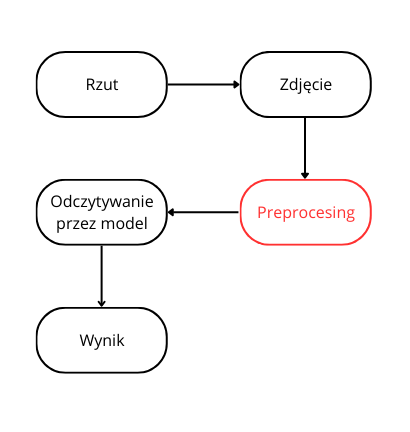
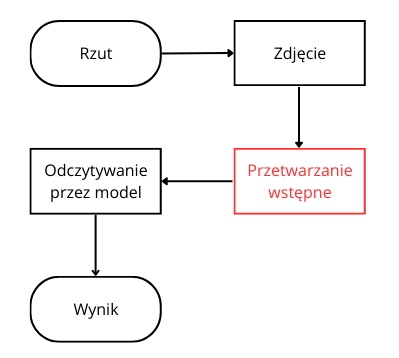
Poprawki poprwek

Changed region(s): [[0.0602, 0.3994, 0.9323, 0.9218], [0.0602, 0.0307, 0.9323, 0.4302], [0.0902, 0.9218, 0.391, 0.9832]]

diff --git a/Pracka/chapters/06-testy/06-testy.tex b/Pracka/chapters/06-testy/06-testy.tex
@@ -9,7 +9,7 @@ wyników jest równomierny. Pozostałe cztery to zestaw podany przez amerykańsk
 jest przygotowany dla ciągów o długości 20000 bitów. Poziom istotności tych testów jest równy 0{,}0001~\cite{Kotulski2001}.
 
 
-W sekcjach~\ref{monbitOpis}~-~\ref{pokerowyOpis} zostały opisane testy wskazane w owej normie. Przedsawione w nich stałe
+W sekcjach~\ref{monbitOpis}~--~\ref{pokerowyOpis} zostały opisane testy wskazane w owej normie. Przedsawione w nich stałe
 są zgodnie z normami przedstawionymi w FIPS 140-2~\cite{NIST2001}. Zostały one zaimplementowane w języku Python.
 \par
 Do przeprowadzenia testów rozważano również wykorzystanie biblioteki \textit{TestU01} \cite{TestU01}. Niestety, do zastosowania nawet 
@@ -159,7 +159,7 @@ zgodna z oczekiwaną. Brak podstaw do odrzucenia hipotezy zerowej dla modelu dru
 \subsection{Test serii}
 
 Wyniki testów serii dla obu modeli przedstawiono w tabeli \ref{serieTabela}. Rozkład serii w badanym ciągu odczytanym
-przez modelu pierwszego nie jest zgodny z oczekiwanymi dla obu serii o długości 1, obu serii o długości 2, serii jedynek 
+przez pierwszy model nie jest zgodny z oczekiwanymi dla obu serii o długości 1, obu serii o długości 2, serii jedynek 
 o długości 4 i serii zer o długości 6 lub więcej. Hipotezę zerową dla modelu pierwszego odrzucono.
 
 Dla modelu drugiego rozkłady wszystkich serii są zgodne z oczekiwanymi. Brak podstaw do odrzucenia hipotezy zerowej.
@@ -247,12 +247,12 @@ Rozkład segmentów w ciągach odczytanych przez oba modele przedstawiono w tabe
 \end{table} 
 
 \subsection{Wnioski}
-Dla pierwszego modelu odrzucono hipotezę zerową dla czterech z pięciu testów odrzucono. W wynikach testu statystyki 
-rozkładu chi-kwadrat (punt \ref{chiWyniki}) można zauważyć, że liczba 6 jest odczytywana ponad dwa razy częściej niż 
+Dla pierwszego modelu odrzucono hipotezę zerową dla czterech z pięciu testów. W wynikach testu statystyki 
+rozkładu chi-kwadrat (sekcja \ref{chiWyniki}) można zauważyć, że liczba 6 jest odczytywana ponad dwa razy częściej niż 
 liczba 8. Ma to bardzo duży wpływ na otrzymany ciąg bitów, ponieważ liczba 6 jest interpretowana jako 110, a 
 liczba 8 jako 000, co można zaobserwować w wynikach pozostałych testów. Sprawia to, że jedynki pojawiają się 
-częściej w ciągu niż zera. Ukazuje to już test monobitowy (punkt \ref{chiWyniki}), gdzie liczba jedynek w ciągu jest 
-większa niż oczekiwana. Podobny problem można zaobserwować w wynikach testu pokerowego (punkt \ref{pokerWyniki}), 
+częściej w ciągu niż zera. Ukazuje to już test monobitowy (sekcja \ref{chiWyniki}), gdzie liczba jedynek w ciągu jest 
+większa niż oczekiwana. Podobny problem można zaobserwować w wynikach testu pokerowego (sekcja \ref{pokerWyniki}), 
 gdzie segmenty zawierające trzy lub cztery bity o wartości 1 występują znacznie częściej niż segmenty zawierające 
 więcej bitów o wartości 0. 
 \par

diff --git a/Pracka/chapters/02-teoria/02.2-sprzetowe.tex b/Pracka/chapters/02-teoria/02.2-sprzetowe.tex
@@ -25,7 +25,7 @@ za to na przykład za pośrednictwem API takiego jak \textit{drand}~\cite{drand_
 Przykładem takiego rozwiązania jest Cloudflare – firma specjalizująca się w dostarczaniu usług związanych z bezpieczeństwem sieciowym.
 Na swoim blogu Cloudflare przedstawia zaawansowane metody generowania liczb losowych, które są wykorzystywane w ich systemach~\cite{cloudflare_league_of_entropy}.
 Dodatkowo wspomniana firma korzysta również z technologii opartych na zjawiskach fizycznych, takich jak rozpad radioaktywnego uranu,
-trójstopniowego wahadła, czy „Entropy Wall”, która pobiera entropię z kamery
+trójstopniowego wahadła czy „Entropy Wall”, która pobiera entropię z kamery
 ustawionej na ścianę lamp lawowych, pokazanej na rys.~\ref{fig:lavarand}.
 Te prawdziwie losowe wartości zostają potem użyte jako ziarno dla generatorów pseudolosowych.
 Tego typu rozwiązania pozwalają na szybkie i bezpieczne generowanie liczb losowych w skali globalnej, zapewniając jednocześnie wysoki poziom ochrony przed atakami.
@@ -39,7 +39,7 @@ takich jak bankowość elektroniczna czy systemy wojskowe.
 
 ID Quantique jest jednym z liderów w dziedzinie generatorów liczb losowych opartych na technologii fotoniki i mechanizmach kwantowych.
 Firma oferuje urządzenia, które wykorzystują detekcję fotonów w celu generowania liczb losowych.
-Dzięki temu rozwiązania ID Quantique charakteryzują się bardzo wysoką jakością losowości,a jednocześnie są odporne na ataki związane z analizą i przewidywaniem generowanych liczb.
+Dzięki temu rozwiązania ID Quantique charakteryzują się bardzo wysoką jakością losowości, a jednocześnie są odporne na ataki związane z analizą i przewidywaniem generowanych liczb.
 
 Microchip Technology w swojej ofercie posiada różne moduły TRNG, w tym układy scalone,
 które generują liczby losowe na podstawie fluktuacji szumów termicznych.
@@ -69,5 +69,5 @@ Zamiast tego wynik jest generowany na podstawie zmiany prędkości, z jaką potr
 Drugim rozwiązaniem jest urządzenie wykorzystane w eksperymencie opisanym w artykule \textit{Dice thrown by cup and machine in PK tests} autorstwa J. B. Rhine~\cite{betoniarka43}.
 Jest on najbardziej zbliżony do przedstawionego w poniższej pracy projektu, ponieważ również wprawia kość w
 ruch za pomocą obracającego się mechanicznie pojemnika.
-Z racji na dostępne technologie, z którymi pracował J. B. Rhine, odczytywanie wyników musiało odbywać się ręcznie, a nie za pomocą małej kamery i sztucznej inteligencji.
+Z racji na dostępne technologie, z którymi pracował J.~B.~Rhine, odczytywanie wyników musiało odbywać się ręcznie, a nie za pomocą małej kamery i sztucznej inteligencji.
 Jednakże, konstrukcja urządzenia jest bardzo podobna do zaprezentowanego w sekcji~\ref{subsec:prototypowanie} pierwszego wariantu robota.

diff --git a/Pracka/chapters/05-Przetwarzanie Wyniku/05.1-Komunikacja.tex b/Pracka/chapters/05-Przetwarzanie Wyniku/05.1-Komunikacja.tex
@@ -22,14 +22,14 @@ Aby wykorzystać ten tryb pracy należy wysłać do robota znak 'e'.
 W tym trybie zadaniem jest ciągłe generowanie kolejnych bajtów danych.
 Odbywa się to przez wykonanie następującego algorytmu:
 \begin{enumerate}
-    \item Utowrzenie zmiennej \textit{num} i przypisanie wartości początkowej 0
-    \item Wykonanie rzutu kością
-    \item Wykorzystanie modelu opisanego w rozdziale~\ref{ch:odczytywanie-losowego-wyniku-z-kosci} do oczytania liczby i dodanie jej do zmiennej \textit{num}
-    \item Przesunięci bitowe zmiennej \textit{num} w lewo o 3 bity, ponieważ każdy rzut generuje 3 bity 
-    \item Powtórzenie kroku 1, 2 i 3 aż do wygenerowania co najmniej 8 bitów, ponieważ generując bajty należy wykonać 
-    kolejno 3 rzuty (zostaje 1 bit) 3 rzuty (zostają 2 bity) 2 rzuty (wykorzystujemy bity pozostałe z poprzednich rzutów)
-    \item Wydobycie bajtu ze zmiennej \textit{num} wykonując koniunkcję binarną z liczbą 255 i wysłanie go do drugiego urządzenia
-    \item Przesunięci bitowe zmiennej \textit{num} w prawo o 8 bitów, przez co zostanie usunięta część która została już wysłana
+    \item Utowrzenie zmiennej \textit{num} i przypisanie wartości początkowej 0.
+    \item Wykonanie rzutu kością.
+    \item Wykorzystanie modelu opisanego w rozdziale~\ref{ch:odczytywanie-losowego-wyniku-z-kosci} do oczytania liczby i dodanie jej do zmiennej \textit{num}.
+    \item Przesunięcie bitowe zmiennej \textit{num} w lewo o 3 bity, ponieważ każdy rzut generuje 3 bity.
+    \item Powtórzenie kroku 1, 2 i 3 aż do wygenerowania co najmniej 8 bitów, ponieważ generując bajty należy wykonać.
+    kolejno 3 rzuty (zostaje 1 bit) 3 rzuty (zostają 2 bity) 2 rzuty (wykorzystujemy bity pozostałe z poprzednich rzutów).
+    \item Wydobycie bajtu ze zmiennej \textit{num} wykonując koniunkcję binarną z liczbą 255 i wysłanie go do drugiego urządzenia.
+    \item Przesunięcie bitowe zmiennej \textit{num} w prawo o 8 bitów, przez co zostanie usunięta część która została już wysłana.
 \end{enumerate}
 
 W powyższym algorytmie dane wysyłane są po bajcie danych ponieważ jest to najmniejsza jednostka, 

diff --git a/Pracka/chapters/02-teoria/02.1-teoria.tex b/Pracka/chapters/02-teoria/02.1-teoria.tex
@@ -9,17 +9,17 @@ Z tego powodu nie można przewidzieć wyniku działania takiego układu, a uzysk
 
 Jednak powszechnie używane są generatory pseudolosowe (PRNG, z ang. \textit{Pseudorandom Number Generator}).
 PRNG są całkowicie deterministyczne i zależą od zadanej im wartości początkowej zwanej ziarnem (ang. \textit{seed}).
-TRNG (z ang. \textit{True Random Number Generator}) są szczególnie istotne w kontekście aplikacji wymagających silnej 
-ochrony danych, takich jak systemy kryptograficzne, podpisy cyfrowe, oraz w generowaniu kluczy szyfrujących,
+Dlatego TRNG (z ang. \textit{True Random Number Generator}) są szczególnie istotne w kontekście aplikacji wymagających silnej 
+ochrony danych, takich jak systemy kryptograficzne, podpisy cyfrowe oraz w generowaniu kluczy szyfrujących,
 gdyż nie da się przewidzieć w skuteczny sposób generowanych przez nie wartości.
 
 \section{Obecnie stosowane rozwiązania}\label{sec:obecnie-stosowane-rozwiazania}
 
 % todo opisać to lepiej, może Kuba (Yoshida) o linuxowych?
-Obecnie komputery osobiste wykorzystują generatory liczb losowych (RNG, z ang. \textit{Random Number Generator})
-wykorzystujące dostępne im źródła entropii dostarczane przez użytkownika, takie jak ruchy myszy lub naciśnięcia przycisków.
+Obecnie komputery osobiste korzystają z generatorów liczb losowych (RNG, z ang. \textit{Random Number Generator})
+wykorzystujących dostępne im źródła entropii dostarczane przez użytkownika, takie jak ruchy myszy lub naciśnięcia przycisków.
 W nowoczesnych procesorach stosuje się też liczby generowane przez dedykowane moduły takie jak Intel DRNG za pomocą \textit{Intel RDSEED} i \textit{RDRAND}~\cite{IntelRD}.
-System Linux dostarcza również interfejsy \textit{/dev/random} raz \textit{/dev/urandom} zapewniające liczby losowe.
+System Linux dostarcza również interfejsy \textit{/dev/random} oraz \textit{/dev/urandom} zapewniające liczby losowe.
 
 
 

diff --git a/Pracka/chapters/01-wstep/01.3-struktura_i_podzial.tex b/Pracka/chapters/01-wstep/01.3-struktura_i_podzial.tex
@@ -3,9 +3,9 @@
 Struktura pracy jest następująca:
 \begin{itemize}
     \item Rozdział~\ref{ch:przeglad-rynku} przedstawia przegląd obecnie dostępnych sprzętowych generatorów liczb losowych,
-    w tym liderów na rynku oraz innych rozwiązań, zbliżonych do naszego.
+    w tym liderów na rynku oraz innych rozwiązań, w tym zbliżonych do zaprezentowanego w poniższej pracy.
     \item Rozdział~\ref{ch:budowa-sprzetowego-generatora} jest poświęcony budowie sprzętowej części robota.
-    \item Rozdział~\ref{ch:odczytywanie-losowego-wyniku-z-kosci} zawiera dokładny opis metody odczytywania wyniku rzutu kością,
+    \item Rozdział~\ref{ch:odczytywanie-losowego-wyniku-z-kosci} zawiera dokładny opis metody odczytywania wyniku rzutu kością
     wraz z opisem wykorzystanej sieci neuronowej.
     \item Rozdział~\ref{ch:komunikacja} opisuje protokoł komunikacji z innym urządzeniem odbierającym wynik pracy robota. 
     \item Rozdział~\ref{ch:testy} przedstawia wykorzystane testy statystyczne oraz ich wyniki.
@@ -21,7 +21,7 @@ Realizacja projektu została podzielona w sposób przedstawiony w tabeli~\ref{ta
         \hline
         Imię i nazwisko & Zakres pracy \\
         \hline
-        \multirow{9}{*}{Jakub Kędra} 
+        \multirow{10}{*}{Jakub Kędra} 
             & Projekt i wydruk w technologii druku 3D prototypów oraz ostatecznej \\
             & wersji urządzenia. \\
             & Projekt układu elektronicznego. \\
@@ -55,7 +55,7 @@ Realizacja projektu została podzielona w sposób przedstawiony w tabeli~\ref{ta
             & Oznaczanie przykładów uczących dla sieci neuronowej. \\
             & Przegląd literatury. \\
         \hline
-        \multirow{7}{*}{Julia Samp} 
+        \multirow{8}{*}{Julia Samp} 
             & Opracowanie i przeprowadzenie testów statystycznych otrzymanych \\
             & wyników. \\
             & Implementacja testów zgodnie z standardem FIPS. \\

diff --git a/Pracka/chapters/01-wstep/01.2-decyzje-projektowe.tex b/Pracka/chapters/01-wstep/01.2-decyzje-projektowe.tex
@@ -41,7 +41,7 @@ a do tego ma liczbę ścianek będącą potęgą liczby 2 (co jest atutem, ze wz
 
 \begin{figure}[h]
     \centering
-      \begin{subfigure}{.43\textwidth}
+      \begin{subfigure}{.45\textwidth}
         \includegraphics[width=.9\linewidth]{chapters/01-wstep/figures/modern_k4}
         \caption{\label{fig:modern_k4}Kość czworościenna typu „modern”}
       \end{subfigure}%

diff --git a/Pracka/chapters/04-czytanie/04.1-Projektowanie-i-Budowa-OCR.tex b/Pracka/chapters/04-czytanie/04.1-Projektowanie-i-Budowa-OCR.tex
@@ -6,7 +6,7 @@ najpierw zdjęcie musi zostać poddane odpowiedniemu przetwarzaniu, które zosta
 
 \begin{figure}[H]
     \centering
-    \includegraphics[width=0.5\linewidth]{chapters/04-czytanie/figures/schemat}
+    \includegraphics[width=0.5\linewidth]{chapters/04-czytanie/figures/schemat.png}
     \caption{Schemat pracy robota}
     \label{fig:schemat_workflow}
 \end{figure}
